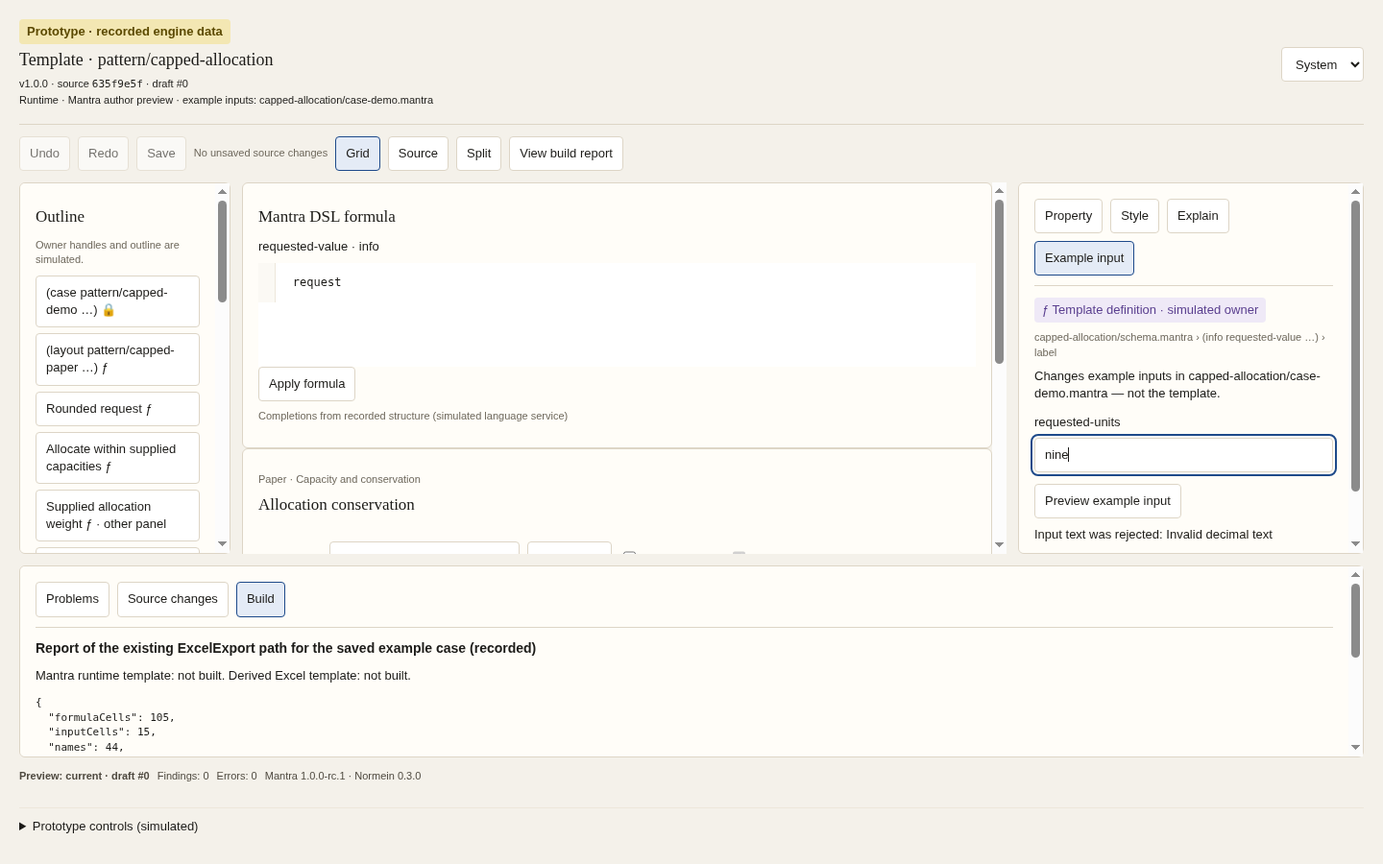
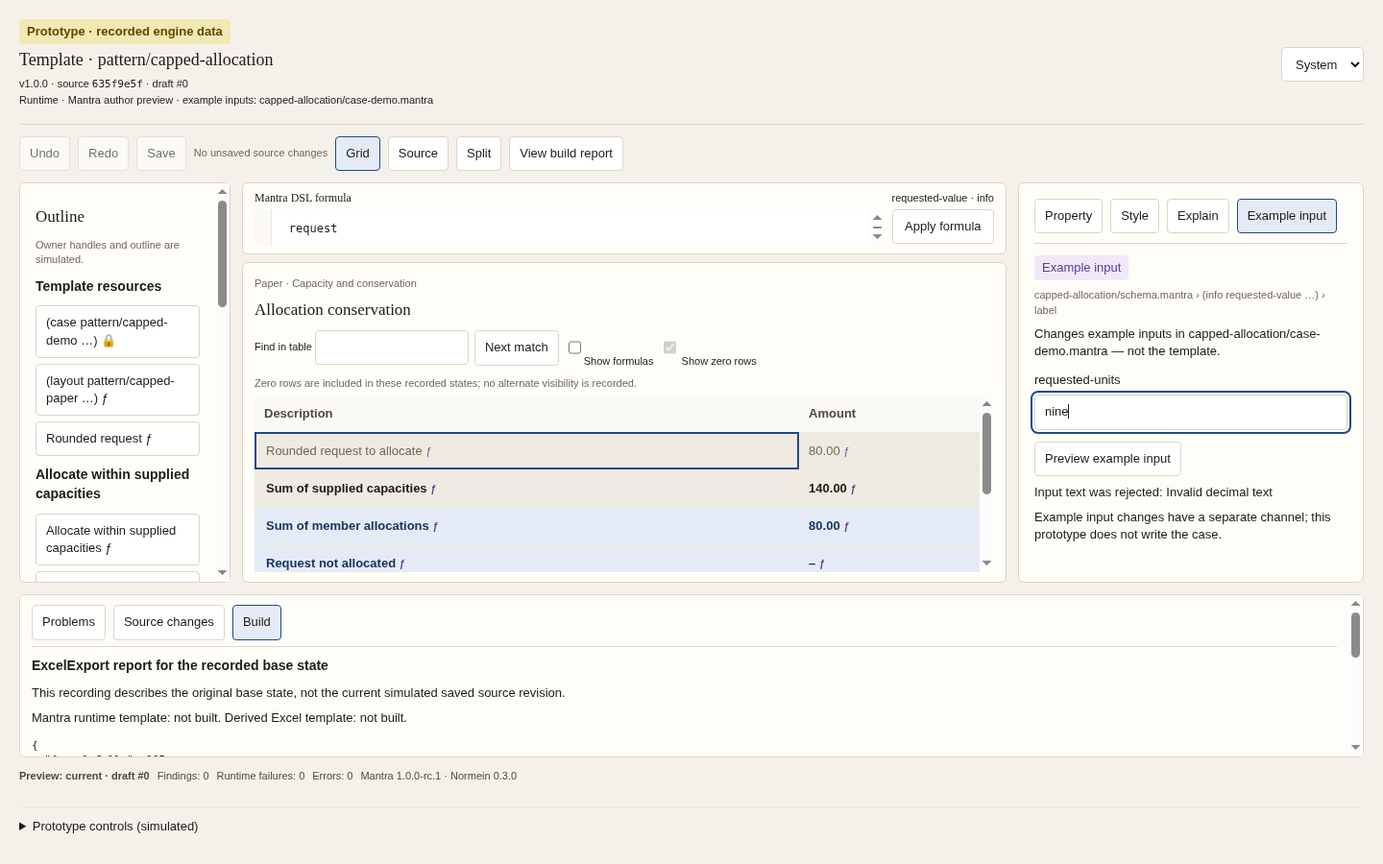
docs(authoring): hand review fixes back with verified screenshots

diff --git a/docs/workbench/visual-editor/resume-prompt.md b/docs/workbench/visual-editor/resume-prompt.md
@@ -1,67 +1,93 @@
 # Claude Code continuation prompt
 
-使用说明：恢复本地 Claude Code 会话后，可复制下方正文。设计文档已完成，Codex 已实现录制引擎原型；
-本轮任务是按远端提交复核，不再从阶段 0 重写设计。历史基线与检查点见 [README](README.md)，
-当前启动、证据与限制见 [实施记录](implementation-progress.md)。
+使用说明：设计交付与初次复核已完成，Codex 已按 F1–F18／S1 修正原型。
+本轮请对 Mantra PR #15 最新已推送 HEAD 再次复查，重点验证你在 `69ab8ff` 上发现的问题；
+不要重做设计基线，也不要将 Codex 的自动检查视作 Claude 的人工签收。
+修正映射见 [prototype-fixes.md](prototype-fixes.md)，启动与检查证据见 [实施记录](implementation-progress.md)。
 
 ---
 
-继续 Mantra 可视化 DSL 编辑器与 Template Engine 并行使用任务。按约定，你负责设计与实现复核，
-Codex 负责编码。先确认并同步 Mantra Draft PR #15 的最新提交，再按 `prototype.md §11` 复核原型。
+继续 Mantra 可视化 DSL 编辑器与 Template Engine 并行使用任务。按约定，你负责设计文档与复核，
+Codex 负责编码。你已在 `92664ae` 推送对 `69ab8ff` 的初次复核；现在按同一 Draft PR 的最新提交复查修正。
+修正代码检查点是已推送的 `dc01609`；其后文档提交不改变源码，仍应记录并读取 PR 最新已推送 HEAD。
 
 ## 恢复与保护已有工作
 
 - Mantra：`/Users/qiouyang/Documents/Claude/Codes/mantra`，任务分支
   `codex/mantra-design-handoff-20261010`，Draft PR：https://github.com/6234456/mantra/pull/15。
   先读取状态、远端和最新提交，在干净分支正常 fast-forward；保留已有文件、暂存内容与分支，不 reset、clean 或强推。
-  `b27e2f5` 是你的设计交付提交，`9155663` 是 Codex 第一段已推送的代码检查点，均是历史定位信息，
-  不把它们当作 PR 当前 HEAD。
-- 云端编码使用独立检出 `/workspace/.cloud-setup/mantra-checkpoint-repo`，没有清理旧 `/workspace/mantra`
-  工作区；本地复核以远端提交为准。
+  记录并按最新已推送 HEAD 复查，不按工作区或历史 `69ab8ff` 复查。
+- 云端编码使用独立检出 `/workspace/.cloud-setup/mantra-checkpoint-repo`，旧 `/workspace/mantra` 工作区保持原样。
 - Template Engine：`/Users/qiouyang/Documents/Claude/Codes/template_engine`，Draft PR：
   https://github.com/6234456/paramita-v2/pull/1，任务分支 `codex/mantra-parallel-use-20261010`。
-  此轮 Codex 未修改该仓库。其主工作区可能仍有另一会话的改动；重新核对并保持原样，遵守不创建或切换 worktree 的规则。
+  本轮未修改该仓库；另一会话的工作区与真实 index 保持原样，遵守不创建或切换 worktree 的规则。
 
-先读 Mantra `CLAUDE.md`、`docs/workbench/visual-editor/implementation-progress.md`、`prototype.md`，
-再按需要补读 `design-spec.md`、`state-matrix.md` 与 `implementation-plan.md`。Template Engine 的设计文档已交付，
-只在复核并行使用约定时读取 `.agentdocs/index.md` 与 `.agentdocs/frontend/mantra-derived-template-parallel-use.md`。
+先读 `CLAUDE.md`、`docs/workbench/visual-editor/prototype-review.md`、`prototype-fixes.md`、
+`implementation-progress.md` 和 `prototype.md`。按需补读 `design-spec.md`、`state-matrix.md`。
+本轮不扩展 G-A1–G-A15，也不替正式多文档文件事务选择 D-A1 策略。
 
-## 验证实现与真实性
+## 复查实现与交互
 
 1. `npm --prefix workbench-ui ci`，`npm --prefix workbench-ui run dev`，打开
-   `http://localhost:5173/authoring`。这是 fixture 入口；live 构建不包含原型。现有工作台入口仍为 `/`。
-2. 按 `prototype.md §9` 逐步操作，并检查 `screenshots/` 的 11 张实测图。
-   在模拟保存与外部修改后，测试 Example input 的 `9`／`nine` 前必须使用
-   `Reset prototype to recorded base`；仅撤销不能恢复初始保存基准。
-3. 运行 `npm --prefix workbench-ui run check`、`npm --prefix workbench-ui test`、
-   `npm --prefix workbench-ui run build`、`python3 scripts/check-boundaries.py`，以及
-   `npm --prefix workbench-ui run authoring:record:check`。
-   查验全部现有测试保留，新增测试覆盖行为与竞态，不能只断言渲染成功。
-4. 有已安装 Chrome 时运行：
+   `http://localhost:5173/authoring`。这是 fixture 入口；live 构建不包含原型，原工作台仍为 `/`。
+2. 在 1440×900 检查 F1–F3：首屏即见网格行，公式栏固定且聚焦展开；Split 的两窗格独立滚动。
+   保持网格焦点选择 owner，源码有可见的主／次高亮，不能把整栏滚走或抢焦点。
+3. 按 `prototype.md §9` 再走标签、class、无效公式、finding、迟到预览、冲突、运行时失败与恢复。
+   未录制文字的源操作被接受后应完成导航并说明无预览；Source changes 的多个 hunk 不能把未变声明列为新增／删除。
+   冲突显示外部 hunk，旧预览明确基于旧修订；重定基准后才接受新修订的当前预览。
+4. 检查 F5：Style 使用源顺序 class 芯片。移除 subtotal，Add class → result，显式 Apply。
+   可选词汇来自 layout 声明的 preset／本地 style-class；utilities 的 normal／subtle／highlight 与
+   working-paper 的 variance 都存在且注明出处。最终 Weight／Tone／Fill 直接取 Paper，不从芯片推算。
+   本原型的 capped-allocation 没有本地 style-class；局部声明与未知标签的行为另有测试，必要时用未录制源草稿抽查。
+5. 检查 F7–F9、F14–F17：运行时失败计入 Problems／Errors，标记说明显示当前结果；Example input 与只读
+   owner 的通道标识变化。恢复时间本地化；恢复出的运行时失败草稿首个匹配技术有效预览后也能模拟保存。
+   Build 报告注明 recorded base，三个禁用按钮分别关联原因；不能显示新构建／发布／下游兼容成功。
+6. 在 390 px 检查 F10：首屏网格、Outline 可关闭覆盖层、Grid／Source 分段、全屏 Inspector；关闭后返回原单元格。
+   桌面 Split 变窄后退为 Grid，扩大后恢复；窄屏 F2 公式编辑只有一个 CodeMirror，Escape 取消并正确返回。
+   检查 13 张最新实测截图，新增图为 split-independent.png 与 narrow-inspector.png。
+7. 检查 F12–F13：合成 keyCode 229 已覆盖同步移交焦点，单格浏览态 Escape 不关闭 Drawer。
+   **真实中文拼音输入法仍需人工操作**：首个组合输入能进入字段，候选 Enter 只确认，第二次 Enter 提交。
+   若你无法操作真实输入法，明确标为待用户人工验证，不能把合成事件写成真实系统 IME 通过。
+8. 示例输入 `9`／`nine` 前使用 `Reset prototype to recorded base`。先前模拟保存或外部修改后，仅撤销不能恢复初始保存基准。
 
-   ```sh
-   MANTRA_TEST_CHROME=/path/to/installed/chrome npm --prefix workbench-ui run test:authoring:e2e
-   ```
+## 检查与真实性
 
-   脚本使用专属临时 profile 并在退出时清理；云端已有 12 个作者 CDP 场景及 13 个原工作台浏览器流程通过。
-   合成 composition/keyCode 守卫不能替代真实中文输入法：用拼音 IME 人工复核候选 Enter、
-   第二次 Enter 提交与焦点，不安装浏览器 bundle。
-5. 抽查 32 个录制状态、277 个完整响应 blob、源摘要与引擎／契约版本。数值、Paper、诊断与 Explain
-   必须来自真实录制响应；未录制草稿显示无引擎预览。检查未知符号精确范围、业务 finding 可保存、
-   运行时失败身份、过期响应与过期示例预览不得覆盖新草稿。
-6. 检查源码缓冲、500 ms 空闲事务、逐字节 Undo／Redo、模拟 CAS 与外部冲突、重新预览、恢复记录正确的
-   已保存基准，以及丢弃后迟到写入不能复活草稿。重新预览与保存成功后不得错误保留旧 Conflict 状态。
+运行 check、test、fixture 与 live 构建、边界检查及录制摘要漂移检查：
+
+```sh
+npm --prefix workbench-ui run check
+npm --prefix workbench-ui test
+npm --prefix workbench-ui run build
+VITE_WORKBENCH_MODE=live npm --prefix workbench-ui run build
+python3 scripts/check-boundaries.py
+npm --prefix workbench-ui run authoring:record:check
+```
+
+本轮代码检查点实测 40 个文件／347 项测试通过，作者浏览器 15 个、原工作台 13 个流程通过，共 28 个；
+fixture／live 构建、边界与 32 状态漂移检查均通过。live 产物不能包含原型或录制数据；
+原有 204 项测试保持通过，复查数量以你当前运行输出为准。
+`App.tsx` 保持不变，现有入口行为应不变。已有安装 Chrome 时可运行作者和原工作台浏览器脚本：
+
+```sh
+MANTRA_TEST_CHROME=/path/to/installed/chrome npm --prefix workbench-ui run test:authoring:e2e
+MANTRA_TEST_CHROME=/path/to/installed/chrome npm --prefix workbench-ui run test:e2e
+```
+
+使用专属临时 profile，检查退出清理；不安装浏览器 bundle。浏览器脚本结果和完整门禁见实施记录。
+
+你在初次复核中独立重录 32 状态，确认 277 个完整响应 blob、307 个响应除执行间 eventId 外一致。
+本轮 recording.json、pattern 和 JVM 引擎没有修改；检查提交差异与摘要漂移即可，布局修正不要求重复生成录制文件。
+如确有数据变更，才重新核对真实服务响应。任何数值、Paper、诊断、Explain 均须来自真实录制，未录制草稿不合成结果。
 
 ## 复核边界与输出
 
-原型的 owner、源补丁、fork、保存与冲突均为模拟；保存不写源文件。Build、Publish 与
-`Open in Template Engine` 禁用，只展示真实录制的现有 ExcelExport 报告。示例输入仅在原始录制保存基准且无模板草稿时启用。
-不要把这些结果写成正式模板草稿 API、多文档事务、发布能力或已验证 Template Engine 兼容性。
+owner、源补丁、fork、保存与冲突都是模拟，保存不写模板文件。Build／Publish／Open in Template Engine 仍禁用；
+报告属于原始录制 base，不能证明 Template Engine 或 Excel 重算兼容。正式接口与发布、D-A1 文件原子性仍未决定。
+S2 的 Inspector 文字编辑作为原型接受项保留，S3 多行 class 分配延后。
 
-G-A1–G-A15 仍需契约与后端实施；D-A1 的正式多文档原子性尚未决定，本轮模拟源集合更新没有替它选定文件保存策略。
-保留 shared DSL → 编译／预览／构建 → Mantra 原生与派生 Excel 分叉的架构，以及 Template Engine 独立的纯 Excel 作者路径。
-本轮继续用 Mantra HTML table；不因本地 TS 源码无依赖就宣称 Template Engine 的 React 18 workspace UI 是可安装 React 19 SDK。
+保留 shared DSL → 编译／预览／构建 → Mantra 原生与派生 Excel 分叉架构，以及 Template Engine 独立纯 Excel 作者路径。
+本轮仍为 Mantra HTML table，没有引入 Office Canvas、React 18 workspace UI 包或新 npm 依赖。
 
-提交复核结果：列出已复现行为、真实 IME 结果、设计与实现的具体差异及问题的操作步骤／源位置。
-确认通过后才将 `prototype.md §11` 改为实际复核结果；不要将 Codex 自动检查当作你的人工签收。
-修复或文档调整只加入本任务文件，及时提交、正常推送同一 Draft PR，保留另一会话工作区。
+输出独立的再次复核记录：写明提交 SHA、门禁结果，按 F1–F18／S1 列出通过或具体剩余问题及操作步骤／源位置。
+保留 prototype-review.md 的初次评估；不要把编码方修正说明改成你的签收。真实 IME 另列实测或未测。
+确认通过后才更新 prototype.md §11／README 的人工评审状态；仅加入本任务文档，及时提交、正常推送同一 Draft PR。

diff --git a/docs/workbench/visual-editor/prototype-fixes.md b/docs/workbench/visual-editor/prototype-fixes.md
@@ -1,0 +1,58 @@
+# 原型复核修正：F1–F18 与 S1
+
+> 2026-10-10：**Codex 修正完成，待 Claude 按 PR 最新已推送 HEAD 复查**。
+> 本轮以 Claude 文档提交 `92664ae` 为起点，修正 [初次复核](prototype-review.md) 对 `69ab8ff` 的发现。
+> 修正代码检查点 **`dc01609` 已正常推送**；本文随后以文档提交交付，复查仍按 PR 最新已推送 HEAD。
+> 下表是编码方的实现与检查记录，不表示 Claude 已签收。启动与完整操作脚本见
+> [实施记录](implementation-progress.md)、[prototype.md](prototype.md)；复查提示词见 [resume-prompt.md](resume-prompt.md)。
+
+## 1. 修正对应表
+
+源码路径均位于 `workbench-ui/src/authoring/`。自动化覆盖真实 DOM、布局、引擎录制结果和状态转换；
+F12 的系统输入法候选行为仍需人工操作。
+
+| 发现 | 实现与当前行为 | 源码／检查依据 |
+| --- | --- | --- |
+| F1 Split 共用滚动区域 | 中栏工作区与两个窗格限定高度；网格和源码各有内层滚动。源码 owner 定位只移动 CodeMirror 的滚动容器，保留网格位置和焦点。 | `authoring.css`、`AuthoringCodeEditor.tsx`；CodeMirror 祖先滚动回归；浏览器断言分栏并排、源码内层有滚动、网格位置与中栏 scrollTop 不变；[split-independent.png](screenshots/split-independent.png) |
+| F2 失焦源码无高亮 | 独立 decoration 标出主 owner 与同声明次要 owner，不依赖编辑器选区或焦点。源码缓冲尚未提交时清除不可确认的范围。 | `AuthoringCodeEditor.tsx`、`AuthoringPanels.tsx`；主次范围更新／清除测试；浏览器在网格保持焦点时检查源码高亮可见 |
+| F3 网格不在首屏 | 公式栏位于固定的中栏顶部，默认紧凑、聚焦后展开；网格使用剩余高度并在内部滚动。 | `AuthoringPrototype.tsx`、`authoring.css`；浏览器检查 1440×900 首行位于视口内、滚动网格不移动公式栏 |
+| F4 未录制文字提交无说明 | 接受文字属性的源操作后立即按 Enter／Shift+Enter／Tab 规则返回网格并移动。未录制草稿保留源编辑；字段旁与预览状态说明没有引擎预览，保存保持禁用。公式仍在匹配的技术有效预览后完成导航。 | `AuthoringPrototype.tsx`、`AuthoringInspector.tsx`；未录制标签与导航组件测试、浏览器未录制文字步骤 |
+| F5 Style 面板 | 去掉自由 class 文本框。读取当前 layout 的 `:style-preset` 与本地 `style-class`，使用带出处的预设表提供完整选择；包括 `normal`、`subtle`、`highlight`、`variance`。按源顺序显示芯片，删除／添加后显式 Apply；最终 Weight／Tone／Fill 直接取所选 Paper 单元格。 | `AuthoringStylePanel.tsx`、`styleVocabulary.ts`、`stylePresets.json`；完整预设、局部声明、未知标签、只读／多选测试；[class-style.png](screenshots/class-style.png) |
+| F6 未变行进入差异 | 真实逐行匹配生成分离 hunk，保留 CRLF 与文件末尾换行差异；按可达源历史给每个 hunk 标注来源操作。已保存或外部重定基准前的历史不混入当前来源。 | `sourceDiff.ts`、`AuthoringPanels.tsx`；分离编辑、重复行、换行、已保存／重定基准／撤销来源测试；浏览器检查未改声明不出现在新增／删除中 |
+| F7 运行时失败漏计数 | Problems 与 Errors 包含技术错误和运行时错误；另列 Runtime failures，业务 Findings 继续独立统计。 | `AuthoringPrototype.tsx`、`AuthoringDrawer.tsx`；真实录制运行时诊断组件测试与浏览器断言 |
+| F8 错误标记说明不符 | 当前运行时失败标记朗读当前预览；冲突保留旧版运行时结果时明确属于 previous source revisions；无效草稿等保留有效结果时朗读上一有效预览。显示文本继续来自录制 Paper。 | `AuthoringGrid.tsx`；当前／旧修订运行时可访问名称测试与浏览器检查 |
+| F9 Inspector 通道固定 | Example input 标签显示独立通道；不可编辑 owner 显示 Read-only 与具体原因；可编辑模板属性显示模拟模板定义通道。 | `AuthoringInspector.tsx`；示例输入／只读 owner 组件测试与浏览器检查 |
+| F10 窄屏堆叠 | 小屏 Outline 改为可关闭覆盖层，Grid／Source 为分段视图，Inspector 为全屏覆盖层。关闭 Inspector 返回原单元格；窄屏 Split 退为 Grid，扩大视口后恢复 Split；公式编辑在 Inspector 内只有一个 CodeMirror 实例。 | `AuthoringPrototype.tsx`、`authoring.css`；窄屏覆盖层与公式取消测试；浏览器检查 390 px 首屏网格、无横向溢出、关闭后焦点；[narrow-390.png](screenshots/narrow-390.png)、[narrow-inspector.png](screenshots/narrow-inspector.png) |
+| F11 Outline 扁平 | 按面板分组，包括面板标题 owner；共享定义与模板资源分开。隐藏、零值解释、条件不活跃原因来自录制 Structure／Paper／Run，并保留其他面板标识。 | `AuthoringOutline.tsx`；浏览器检查 Allocation conservation 及其 section owner 归属；不根据节点 id 计算可见性 |
+| F12 浏览态输入法无法启动 | 首个 keyCode 229 同步打开对应编辑器并移交焦点，不 preventDefault、不提交字符、不导航；组合期继续由输入框接收。只读 owner 朗读原因。 | `AuthoringGrid.tsx`、`AuthoringPrototype.tsx`；网格／标签／公式合成事件及同步焦点测试；浏览器合成启动检查。**真实拼音输入法待人工验证** |
+| F13 Escape 关闭 Drawer | 单个网格单元格的 Escape 不动作；矩形多选仍缩为单个单元格，不再调用 Drawer 关闭行为。 | `AuthoringGrid.tsx`、`AuthoringPrototype.tsx`；网格与原型组件测试；浏览器检查 Drawer 内容保持不变 |
+| F14 构建报告基准不清 | 标题改为 `ExcelExport report for the recorded base state`，说明报告属于原始录制 base，并非当前模拟保存修订。 | `AuthoringPanels.tsx` `BuildPanel`；报告文案组件测试；[build-panel.png](screenshots/build-panel.png) |
+| F15 冲突全文与当前预览 | 冲突对话框显示外部源的实际 hunk；冲突期间保留真实旧预览，并在网格／状态栏注明基于旧源修订。匹配旧基准的迟到结果仍不能标为 current；重定基准后等新修订的匹配预览。 | `AuthoringPanels.tsx`、`AuthoringPrototype.tsx`、`model.ts`；外部差异与冲突预览模型测试；[conflict.png](screenshots/conflict.png) |
+| F16 禁用原因未关联 | 每个 Build／Publish／Open in Template Engine 按钮通过 `aria-describedby` 关联自己的不可用原因；没有新增成功路径。 | `AuthoringPanels.tsx`；按钮与对应原因组件测试及浏览器检查 |
+| F17 原始 ISO 时间 | 恢复横幅使用浏览器 locale 的中等日期与短时间；无效时间显示 earlier session。 | `AuthoringPrototype.tsx` `recoveryTime`；浏览器确认恢复横幅无原始 ISO 时间；[recovery.png](screenshots/recovery.png) |
+| F18 文件接近上限 | Inspector、Drawer、Outline 分成独立组件，保留外壳的状态与交互协调；样式选择与逐行差异也各自分离。 | `AuthoringInspector.tsx`、`AuthoringDrawer.tsx`、`AuthoringOutline.tsx`；ESLint 的 1200 非空行门禁检查 |
+| S1 恢复运行时失败无法保存 | 第一次与当前草稿序号及完整基准修订集匹配的 `valid` 或 `runtimeFailure` 响应解除 restored。invalid／unrecorded／迟到或不同修订的响应不能解除；运行时失败不替换上一有效预览证据。 | `model.ts`；24 项模型测试包含恢复有效／运行时、错误修订、迟到无效响应；浏览器刷新并恢复运行时失败草稿后检查 Save 可用 |
+
+样式预设表来源为 [dsl-reference §3.4](../../dsl-reference.md#34-reusable-style-classes)，界面注明出处与 layout 源位置。
+词汇解析只读取声明，不在前端求值样式选择器；规则来源链仍等待正式接口，不能从 class 芯片推断校验通过。
+S2 的 Inspector 文字编辑继续作为原型接受项，S3 的多行 class 分配继续延后，未宣称已实现。
+
+## 2. 本轮验证
+
+`npm run check` 已通过，完整前端测试 **40 个文件、347 项通过**。
+真实 Chrome 检查为作者原型 **15 个流程**、原工作台 **13 个流程**，共 **28 个**，全部通过且完成任务资源清理。
+fixture／live 构建、源摘要漂移与边界检查均通过：fixture 97 modules，live 77 modules／5 个产物文件，
+live 无 AuthoringPrototype chunk、`mantra.authoring-recording/1` 标识或 fixtures 目录；32 状态摘要与当前 pattern 一致。
+完整结果以 [实施记录的验证部分](implementation-progress.md#validation) 为准，避免把历史 `69ab8ff` 检查当作本轮重跑。
+本轮截图清单为 13 张，包含更新后的 11 种原有状态、独立 Split 与窄屏 Inspector。
+
+录制 `recording.json`、pattern 与 JVM 引擎未修改。Claude 在初次复核中独立重录 32 状态并证明响应真实性，
+这一结论继续作为历史证据；本轮重新执行源摘要漂移检查，不将未再次重录写成已重录。
+
+## 3. Claude 再次复查
+
+按 [继续提示词](resume-prompt.md) 同步 PR #15 最新已推送 HEAD，在该提交上重跑门禁并逐项复现。
+重点检查两窗格独立滚动、失焦 owner 高亮、首屏网格与固定公式栏、完整 class 选择、多个 diff hunk、
+当前运行时错误说明、恢复运行时草稿可保存，以及窄屏覆盖层和返回焦点。
+保存、fork、owner 与源修订冲突仍是模拟；正式 G-A1–G-A15、D-A1 文件事务策略、发布与 Template Engine
+兼容性验证均未由本轮替代。两个 Draft PR 保持待评审。

diff --git a/docs/workbench/visual-editor/README.md b/docs/workbench/visual-editor/README.md
@@ -1,9 +1,10 @@
 # 可视化 DSL 编辑器设计交付：进度与恢复记录
 
-> 状态：**设计交付完成，录制引擎原型已实现，待 Claude 按提交复核（2026-10-10）**。
+> 状态：**设计交付与首轮复核完成，Codex 已修正 F1–F18／S1，待 Claude 按最新已推送 HEAD 再次复查（2026-10-10）**。
 > 原型入口为 fixture 模式的 `/authoring`；保存、fork、owner 与源修订冲突均为模拟，未写入模板文件。
 > 当前实现、启动步骤与证据见 [实施记录](implementation-progress.md)，复核任务见
-> [继续提示词](resume-prompt.md)。正式模板 API 与发布能力仍属于接口缺口。
+> [继续提示词](resume-prompt.md)。首轮结论见 [复核记录](prototype-review.md)，修正对应见
+> [prototype-fixes.md](prototype-fixes.md)。正式模板 API 与发布能力仍属于接口缺口。
 > 已有案例操作的候选 Paper 与公式编辑交互补充见 [逻辑实施记录](interaction-progress.md)。
 > 任务来源见 [Claude Code 设计交接](../claude-code-design-prompt.md)。
 
@@ -28,6 +29,13 @@
 [Mantra Draft PR #15](https://github.com/6234456/mantra/pull/15)，
 当前集成检查结果见 [实施记录的验证部分](implementation-progress.md#validation)。
 本次未修改 Template Engine 源码或其另一会话工作区。
+
+**首轮复核后修正（2026-10-10）**：Claude 在 `92664ae` 记录对 `69ab8ff` 的复核；门禁、32 状态
+独立重录真实性与状态逻辑通过。Codex 随后完成 F1–F18 和 S1 修正，重点包括固定公式栏、独立 Split
+滚动与 owner 高亮、layout 派生 class 词汇与芯片、真实分离差异、窄屏覆盖层，以及恢复运行时失败草稿。
+代码检查点 `dc01609` 已正常推送；347 项测试、28 个浏览器流程、fixture／live 构建、边界与 32 状态漂移检查通过。
+检查与 13 张更新截图见 [修正记录](prototype-fixes.md)。复查仍以随后文档提交在内的 PR 最新 HEAD 为准，
+本记录不代替 Claude 再次复查或真实拼音输入法验证。
 
 本机工具链：Zulu JDK 21.0.12、Node 25.2.1、npm 11.6.2。
 `./gradlew --no-daemon --offline :mantra-cli:installDist` 在任务分支上构建成功。
@@ -67,9 +75,10 @@
 - [x] [prototype.md](prototype.md)：录制数据原型的实施说明（录制脚本、模拟服务、状态模型、键盘、测试）、
   操作脚本、截图清单与复核清单。维护者 2026-10-10 决定由 Codex 编码、Claude 复核。
 - [x] 原型代码：`workbench-ui/src/authoring/`、32 状态录制脚本、状态／服务／恢复／组件测试、Chrome CDP
-  操作脚本及 11 张截图。入口、能力边界与实际结果见 [implementation-progress.md](implementation-progress.md)。
+  操作脚本及 13 张更新截图。入口、能力边界与实际结果见 [implementation-progress.md](implementation-progress.md)。
 - [x] Claude 复核 `69ab8ff`：[prototype-review.md](prototype-review.md)。门禁与录制真实性通过；交互布局与样式面板的
-  F1–F18 待 Codex 修正后再次复核；真实中文拼音输入法仍需人工操作。
+  F1–F18 与 S1 已由 Codex 修正，见 [prototype-fixes.md](prototype-fixes.md)。
+- [ ] Claude 对 PR 最新已推送 HEAD 再次复查；真实中文拼音输入法仍需人工操作。
 - [x] Template Engine 侧文档 `.agentdocs/frontend/mantra-derived-template-parallel-use.md` 与索引条目：
   任务分支 `codex/mantra-parallel-use-20261010` 的 `97ba1cc5` 与更正包事实的 `16f49196`，均以临时 index 与
   `commit-tree` 从基线 `6443c688` 的树生成，相对基线只含这两个文件；操作前后主检出的 HEAD、真实 index、工作区状态、其他分支与 stash 不变。

diff --git a/docs/workbench/visual-editor/prototype-review.md b/docs/workbench/visual-editor/prototype-review.md
@@ -90,6 +90,9 @@ PR CI（`verify`）在复核时仍为 pending，未计入本结论。
 
 ## 6. 待完成
 
+Codex 已提交本轮修正说明：[F1–F18／S1 修正对应表](prototype-fixes.md)。该记录属于编码方说明，
+本文件保留对 `69ab8ff` 的首轮评估；Claude 对最新已推送 HEAD 的再次复查仍待完成。
+
 - F1–F18 由 Codex 修正，S1 的模型行为随之调整；完成后 Claude 按本文件复核。
 - 真实中文拼音输入法（步骤 12）需要人工操作。
 - PR CI 结果待出。
